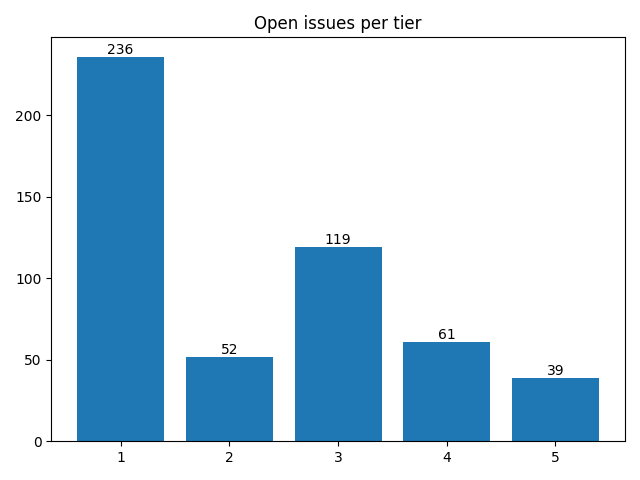
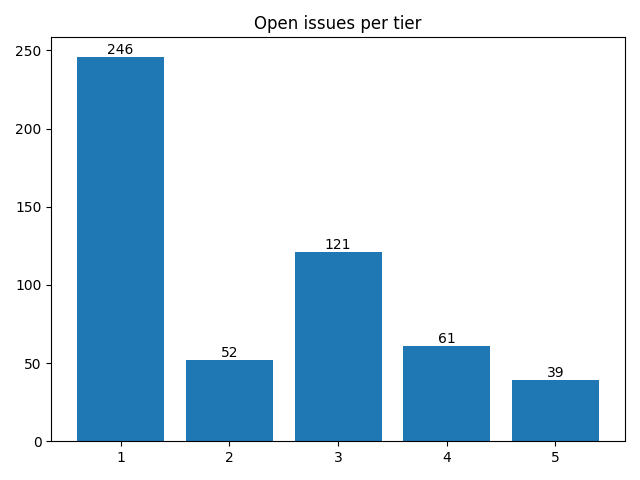
Apply automatic changes

diff --git a/docs/analytics.html b/docs/analytics.html
@@ -104,8 +104,8 @@ td .material-icons { display:inline-flex; vertical-align: top; font-size:1.1rem;
 						</tr>
 						<tr>
 							<td>Aug</td>
-							<td>7</td>
-							<td>1</td>
+							<td>22</td>
+							<td>4</td>
 						</tr>
 					</table>
 				</div>
@@ -125,7 +125,7 @@ td .material-icons { display:inline-flex; vertical-align: top; font-size:1.1rem;
 							<td>
 								<a href="http://github.com/notofonts/latin-greek-cyrillic/issues">latin-greek-cyrillic</a>
 							</td>
-							<td>140</td>
+							<td>139</td>
 						</tr>
 						<tr>
 							<td>
@@ -137,13 +137,13 @@ td .material-icons { display:inline-flex; vertical-align: top; font-size:1.1rem;
 							<td>
 								<a href="http://github.com/notofonts/arabic/issues">arabic</a>
 							</td>
-							<td>21</td>
+							<td>24</td>
 						</tr>
 						<tr>
 							<td>
 								<a href="http://github.com/notofonts/nastaliq/issues">nastaliq</a>
 							</td>
-							<td>16</td>
+							<td>24</td>
 						</tr>
 						<tr>
 							<td>
@@ -196,13 +196,13 @@ td .material-icons { display:inline-flex; vertical-align: top; font-size:1.1rem;
 				<tr>
 					<td>1</td>
 					<td>
-						<a href="http://github.com/notofonts/anatolian-hieroglyphs/issues">anatolian-hieroglyphs</a>,  						<a href="http://github.com/notofonts/armenian/issues">armenian</a>,  						<a href="http://github.com/notofonts/chakma/issues">chakma</a>,  						<a href="http://github.com/notofonts/chorasmian/issues">chorasmian</a>,  						<a href="http://github.com/notofonts/cuneiform/issues">cuneiform</a>,  						<a href="http://github.com/notofonts/duployan/issues">duployan</a>,  						<a href="http://github.com/notofonts/elbasan/issues">elbasan</a>,  						<a href="http://github.com/notofonts/glagolitic/issues">glagolitic</a>,  						<a href="http://github.com/notofonts/gunjala-gondi/issues">gunjala-gondi</a>,  						<a href="http://github.com/notofonts/hanunoo/issues">hanunoo</a>,  						<a href="http://github.com/notofonts/inscriptional-pahlavi/issues">inscriptional-pahlavi</a>,  						<a href="http://github.com/notofonts/kharoshthi/issues">kharoshthi</a>,  						<a href="http://github.com/notofonts/khitan-small-script/issues">khitan-small-script</a>,  						<a href="http://github.com/notofonts/khojki/issues">khojki</a>,  						<a href="http://github.com/notofonts/khudawadi/issues">khudawadi</a>,  						<a href="http://github.com/notofonts/lao/issues">lao</a>,  						<a href="http://github.com/notofonts/masaram-gondi/issues">masaram-gondi</a>,  						<a href="http://github.com/notofonts/meetei-mayek/issues">meetei-mayek</a>,  						<a href="http://github.com/notofonts/mongolian/issues">mongolian</a>,  						<a href="http://github.com/notofonts/music/issues">music</a>,  						<a href="http://github.com/notofonts/nag-mundari/issues">nag-mundari</a>,  						<a href="http://github.com/notofonts/nko/issues">nko</a>,  						<a href="http://github.com/notofonts/nushu/issues">nushu</a>,  						<a href="http://github.com/notofonts/old-italic/issues">old-italic</a>,  						<a href="http://github.com/notofonts/old-turkic/issues">old-turkic</a>,  						<a href="http://github.com/notofonts/oriya/issues">oriya</a>,  						<a href="http://github.com/notofonts/osmanya/issues">osmanya</a>,  						<a href="http://github.com/notofonts/pau-cin-hau/issues">pau-cin-hau</a>,  						<a href="http://github.com/notofonts/phags-pa/issues">phags-pa</a>,  						<a href="http://github.com/notofonts/psalter-pahlavi/issues">psalter-pahlavi</a>,  						<a href="http://github.com/notofonts/rejang/issues">rejang</a>,  						<a href="http://github.com/notofonts/runic/issues">runic</a>,  						<a href="http://github.com/notofonts/saurashtra/issues">saurashtra</a>,  						<a href="http://github.com/notofonts/sogdian/issues">sogdian</a>,  						<a href="http://github.com/notofonts/tai-tham/issues">tai-tham</a>,  						<a href="http://github.com/notofonts/takri/issues">takri</a>,  						<a href="http://github.com/notofonts/tangsa/issues">tangsa</a>,  						<a href="http://github.com/notofonts/toto/issues">toto</a>,  						<a href="http://github.com/notofonts/vai/issues">vai</a>,  						<a href="http://github.com/notofonts/yezidi/issues">yezidi</a> 
+						<a href="http://github.com/notofonts/anatolian-hieroglyphs/issues">anatolian-hieroglyphs</a>,  						<a href="http://github.com/notofonts/armenian/issues">armenian</a>,  						<a href="http://github.com/notofonts/chakma/issues">chakma</a>,  						<a href="http://github.com/notofonts/chorasmian/issues">chorasmian</a>,  						<a href="http://github.com/notofonts/cuneiform/issues">cuneiform</a>,  						<a href="http://github.com/notofonts/duployan/issues">duployan</a>,  						<a href="http://github.com/notofonts/elbasan/issues">elbasan</a>,  						<a href="http://github.com/notofonts/glagolitic/issues">glagolitic</a>,  						<a href="http://github.com/notofonts/gunjala-gondi/issues">gunjala-gondi</a>,  						<a href="http://github.com/notofonts/hanunoo/issues">hanunoo</a>,  						<a href="http://github.com/notofonts/inscriptional-pahlavi/issues">inscriptional-pahlavi</a>,  						<a href="http://github.com/notofonts/kharoshthi/issues">kharoshthi</a>,  						<a href="http://github.com/notofonts/khitan-small-script/issues">khitan-small-script</a>,  						<a href="http://github.com/notofonts/khojki/issues">khojki</a>,  						<a href="http://github.com/notofonts/khudawadi/issues">khudawadi</a>,  						<a href="http://github.com/notofonts/lao/issues">lao</a>,  						<a href="http://github.com/notofonts/masaram-gondi/issues">masaram-gondi</a>,  						<a href="http://github.com/notofonts/meetei-mayek/issues">meetei-mayek</a>,  						<a href="http://github.com/notofonts/mongolian/issues">mongolian</a>,  						<a href="http://github.com/notofonts/nag-mundari/issues">nag-mundari</a>,  						<a href="http://github.com/notofonts/nko/issues">nko</a>,  						<a href="http://github.com/notofonts/nushu/issues">nushu</a>,  						<a href="http://github.com/notofonts/old-italic/issues">old-italic</a>,  						<a href="http://github.com/notofonts/old-turkic/issues">old-turkic</a>,  						<a href="http://github.com/notofonts/oriya/issues">oriya</a>,  						<a href="http://github.com/notofonts/osmanya/issues">osmanya</a>,  						<a href="http://github.com/notofonts/pau-cin-hau/issues">pau-cin-hau</a>,  						<a href="http://github.com/notofonts/phags-pa/issues">phags-pa</a>,  						<a href="http://github.com/notofonts/psalter-pahlavi/issues">psalter-pahlavi</a>,  						<a href="http://github.com/notofonts/rejang/issues">rejang</a>,  						<a href="http://github.com/notofonts/runic/issues">runic</a>,  						<a href="http://github.com/notofonts/saurashtra/issues">saurashtra</a>,  						<a href="http://github.com/notofonts/sogdian/issues">sogdian</a>,  						<a href="http://github.com/notofonts/tai-tham/issues">tai-tham</a>,  						<a href="http://github.com/notofonts/takri/issues">takri</a>,  						<a href="http://github.com/notofonts/tangsa/issues">tangsa</a>,  						<a href="http://github.com/notofonts/toto/issues">toto</a>,  						<a href="http://github.com/notofonts/vai/issues">vai</a>,  						<a href="http://github.com/notofonts/yezidi/issues">yezidi</a> 
 					</td>
 				</tr>
 				<tr>
 					<td>2</td>
 					<td>
-						<a href="http://github.com/notofonts/coptic/issues">coptic</a>,  						<a href="http://github.com/notofonts/dogra/issues">dogra</a>,  						<a href="http://github.com/notofonts/ethiopic/issues">ethiopic</a>,  						<a href="http://github.com/notofonts/georgian/issues">georgian</a>,  						<a href="http://github.com/notofonts/khmer/issues">khmer</a>,  						<a href="http://github.com/notofonts/limbu/issues">limbu</a>,  						<a href="http://github.com/notofonts/mandaic/issues">mandaic</a>,  						<a href="http://github.com/notofonts/old-hungarian-ui/issues">old-hungarian-ui</a>,  						<a href="http://github.com/notofonts/tagalog/issues">tagalog</a>,  						<a href="http://github.com/notofonts/tamil/issues">tamil</a>,  						<a href="http://github.com/notofonts/telugu/issues">telugu</a>,  						<a href="http://github.com/notofonts/thaana/issues">thaana</a> 
+						<a href="http://github.com/notofonts/coptic/issues">coptic</a>,  						<a href="http://github.com/notofonts/dogra/issues">dogra</a>,  						<a href="http://github.com/notofonts/ethiopic/issues">ethiopic</a>,  						<a href="http://github.com/notofonts/georgian/issues">georgian</a>,  						<a href="http://github.com/notofonts/khmer/issues">khmer</a>,  						<a href="http://github.com/notofonts/limbu/issues">limbu</a>,  						<a href="http://github.com/notofonts/mandaic/issues">mandaic</a>,  						<a href="http://github.com/notofonts/music/issues">music</a>,  						<a href="http://github.com/notofonts/old-hungarian-ui/issues">old-hungarian-ui</a>,  						<a href="http://github.com/notofonts/tagalog/issues">tagalog</a>,  						<a href="http://github.com/notofonts/tamil/issues">tamil</a>,  						<a href="http://github.com/notofonts/telugu/issues">telugu</a>,  						<a href="http://github.com/notofonts/thaana/issues">thaana</a> 
 					</td>
 				</tr>
 				<tr>
@@ -220,13 +220,13 @@ td .material-icons { display:inline-flex; vertical-align: top; font-size:1.1rem;
 				<tr>
 					<td>5</td>
 					<td>
-						<a href="http://github.com/notofonts/bengali/issues">bengali</a>,  						<a href="http://github.com/notofonts/bhaiksuki/issues">bhaiksuki</a>,  						<a href="http://github.com/notofonts/canadian-aboriginal/issues">canadian-aboriginal</a>,  						<a href="http://github.com/notofonts/nandinagari/issues">nandinagari</a>,  						<a href="http://github.com/notofonts/sign-writing/issues">sign-writing</a>,  						<a href="http://github.com/notofonts/syloti-nagri/issues">syloti-nagri</a>,  						<a href="http://github.com/notofonts/thai/issues">thai</a>,  						<a href="http://github.com/notofonts/tibetan/issues">tibetan</a> 
+						<a href="http://github.com/notofonts/bengali/issues">bengali</a>,  						<a href="http://github.com/notofonts/bhaiksuki/issues">bhaiksuki</a>,  						<a href="http://github.com/notofonts/nandinagari/issues">nandinagari</a>,  						<a href="http://github.com/notofonts/sign-writing/issues">sign-writing</a>,  						<a href="http://github.com/notofonts/syloti-nagri/issues">syloti-nagri</a>,  						<a href="http://github.com/notofonts/thai/issues">thai</a>,  						<a href="http://github.com/notofonts/tibetan/issues">tibetan</a> 
 					</td>
 				</tr>
 				<tr>
 					<td>6</td>
 					<td>
-						<a href="http://github.com/notofonts/ahom/issues">ahom</a>,  						<a href="http://github.com/notofonts/gujarati/issues">gujarati</a>,  						<a href="http://github.com/notofonts/gurmukhi/issues">gurmukhi</a>,  						<a href="http://github.com/notofonts/kawi/issues">kawi</a>,  						<a href="http://github.com/notofonts/kannada/issues">kannada</a>,  						<a href="http://github.com/notofonts/malayalam/issues">malayalam</a> 
+						<a href="http://github.com/notofonts/ahom/issues">ahom</a>,  						<a href="http://github.com/notofonts/canadian-aboriginal/issues">canadian-aboriginal</a>,  						<a href="http://github.com/notofonts/gujarati/issues">gujarati</a>,  						<a href="http://github.com/notofonts/gurmukhi/issues">gurmukhi</a>,  						<a href="http://github.com/notofonts/kawi/issues">kawi</a>,  						<a href="http://github.com/notofonts/kannada/issues">kannada</a>,  						<a href="http://github.com/notofonts/malayalam/issues">malayalam</a> 
 					</td>
 				</tr>
 				<tr>
@@ -265,11 +265,11 @@ td .material-icons { display:inline-flex; vertical-align: top; font-size:1.1rem;
 						<tr>
 							<td>1</td>
 							<td>
-									<a href="http://github.com/notofonts/latin-greek-cyrillic/issues">latin-greek-cyrillic</a>: 140, 
+									<a href="http://github.com/notofonts/latin-greek-cyrillic/issues">latin-greek-cyrillic</a>: 139, 
 
-									<a href="http://github.com/notofonts/arabic/issues">arabic</a>: 21, 
+									<a href="http://github.com/notofonts/arabic/issues">arabic</a>: 24, 
 
-									<a href="http://github.com/notofonts/nastaliq/issues">nastaliq</a>: 16, 
+									<a href="http://github.com/notofonts/nastaliq/issues">nastaliq</a>: 24, 
 
 									<a href="http://github.com/notofonts/hebrew/issues">hebrew</a>: 15, 
 
@@ -327,7 +327,7 @@ td .material-icons { display:inline-flex; vertical-align: top; font-size:1.1rem;
 
 									<a href="http://github.com/notofonts/ahom/issues">ahom</a>: 6, 
 
-									<a href="http://github.com/notofonts/canadian-aboriginal/issues">canadian-aboriginal</a>: 5, 
+									<a href="http://github.com/notofonts/canadian-aboriginal/issues">canadian-aboriginal</a>: 6, 
 
 									<a href="http://github.com/notofonts/sign-writing/issues">sign-writing</a>: 5, 
 
@@ -348,6 +348,8 @@ td .material-icons { display:inline-flex; vertical-align: top; font-size:1.1rem;
 									<a href="http://github.com/notofonts/tifinagh/issues">tifinagh</a>: 3, 
 
 									<a href="http://github.com/notofonts/coptic/issues">coptic</a>: 2, 
+
+									<a href="http://github.com/notofonts/music/issues">music</a>: 2, 
 
 									<a href="http://github.com/notofonts/tagalog/issues">tagalog</a>: 2, 
 
@@ -370,8 +372,6 @@ td .material-icons { display:inline-flex; vertical-align: top; font-size:1.1rem;
 									<a href="http://github.com/notofonts/meetei-mayek/issues">meetei-mayek</a>: 1, 
 
 									<a href="http://github.com/notofonts/mongolian/issues">mongolian</a>: 1, 
-
-									<a href="http://github.com/notofonts/music/issues">music</a>: 1, 
 
 									<a href="http://github.com/notofonts/nag-mundari/issues">nag-mundari</a>: 1, 
 
